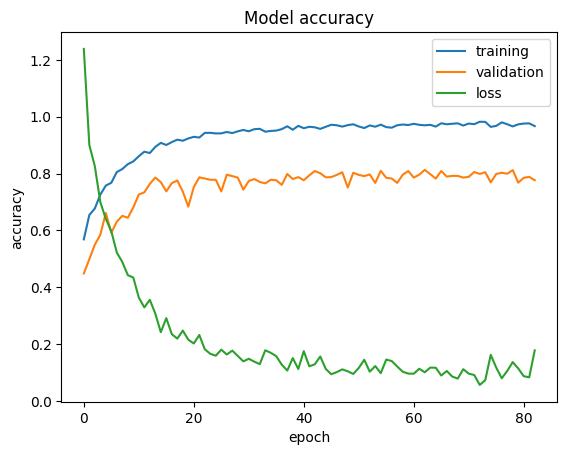
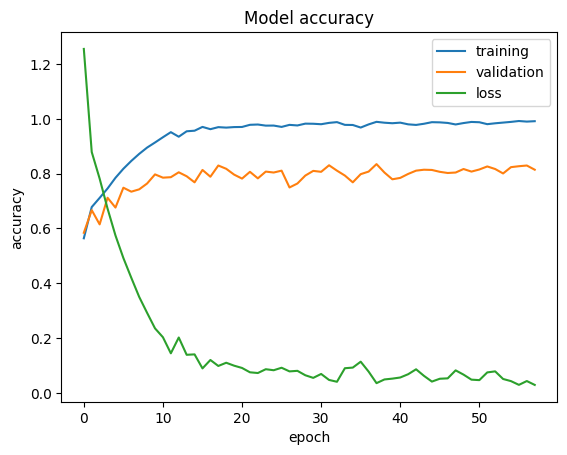
end

diff --git a/README.md b/README.md
@@ -77,6 +77,6 @@ model.compile(loss=tf.keras.losses.categorical_crossentropy,
               metrics=['accuracy'])
 ```
 
-Con 83 épocas y con todos los cambios realizados podemos observar que obtenemos un porcentaje de validación del 77,66%
+Con 58 épocas y con todos los cambios realizados podemos observar que obtenemos un porcentaje de validación del 81,42%
 
 ![Imagen de la gráfica](./output.png)
